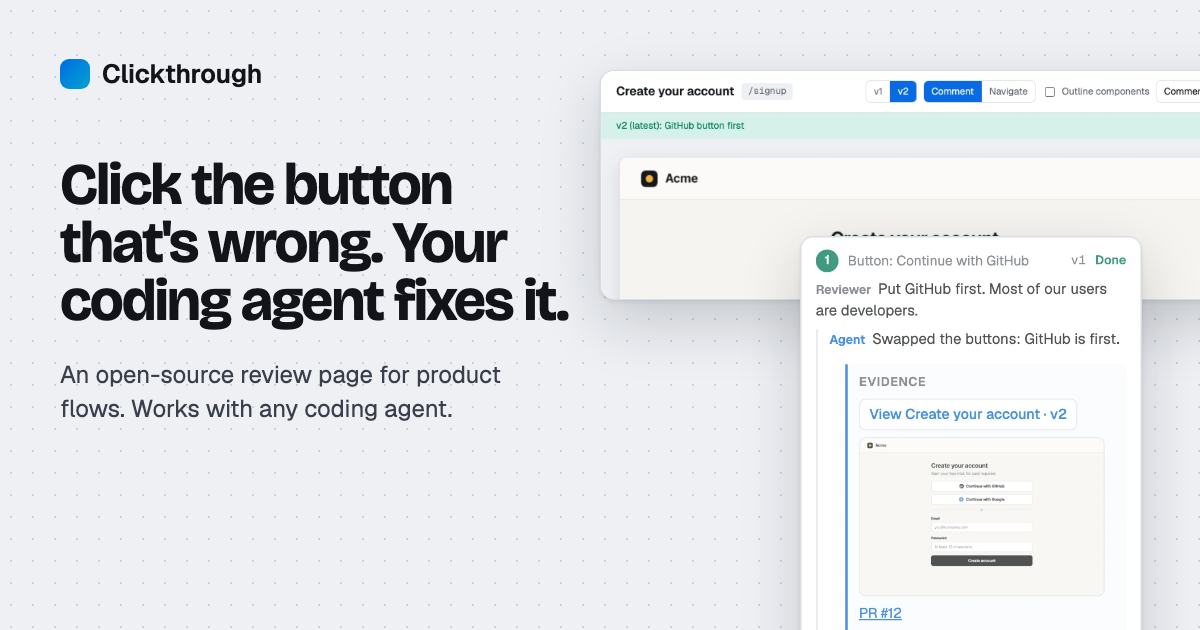
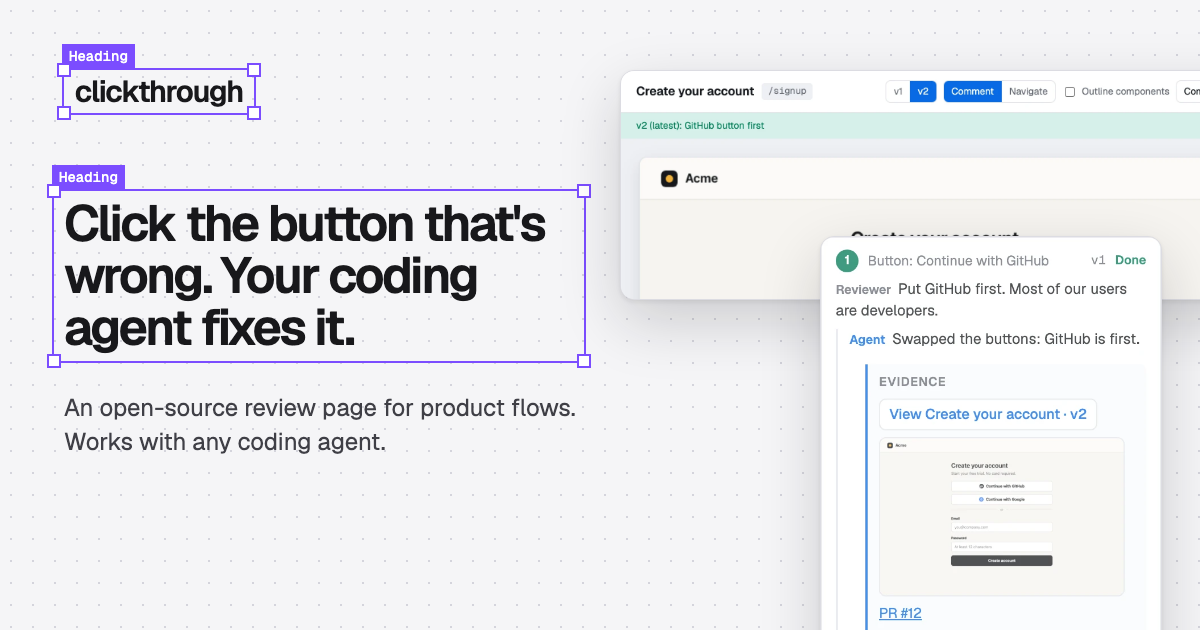
Brand: the Selection direction on the landing page
The wordmark and the main headline are shown selected, with the tool's own
component label. Violet selection colour, Geist throughout, square step
markers, new favicon and social image. og.mjs renders the social image on
its own.

diff --git a/site/styles.css b/site/styles.css
@@ -1,18 +1,19 @@
 /* Clickthrough landing page. The look borrows from the tool itself: a design
-   canvas, the blue selection outline, and a branch tree for the contents. */
+   canvas, the selection box with its label (the brand's one device), and a
+   branch tree for the contents. */
 :root {
-  --canvas: #eef0f4;
-  --dot: #cdd2dc;
+  --canvas: #f5f5f7;
+  --dot: #d4d4dc;
   --panel: #ffffff;
-  --ink: #12141a;
+  --ink: #18181b;
   --muted: #555b6a;
   --line: #d8dce4;
-  --blue: oklch(0.55 0.2 258);
-  --blue-wash: oklch(0.55 0.2 258 / 0.1);
+  --select: #7b4dff; /* the selection colour */
+  --select-wash: rgb(123 77 255 / 0.1);
   --green: oklch(0.508 0.118 166);
-  --code-bg: #14171f;
+  --code-bg: #18181b;
   --code-fg: #e4e7ee;
-  --display: "Bricolage Grotesque", "Geist", system-ui, sans-serif;
+  --display: "Geist", ui-sans-serif, system-ui, sans-serif;
   --sans: "Geist", ui-sans-serif, system-ui, -apple-system, "Segoe UI", Roboto, sans-serif;
   --mono: "Geist Mono", ui-monospace, "SF Mono", Menlo, Consolas, monospace;
   --rail: 264px;
@@ -29,8 +30,8 @@ body {
   -webkit-font-smoothing: antialiased;
 }
 [hidden] { display: none !important; }
-a { color: var(--blue); text-underline-offset: 3px; }
-:focus-visible { outline: 2px solid var(--blue); outline-offset: 3px; border-radius: 4px; }
+a { color: var(--select); text-underline-offset: 3px; }
+:focus-visible { outline: 2px solid var(--select); outline-offset: 3px; border-radius: 4px; }
 .skip { position: absolute; left: -999px; top: 8px; background: var(--panel); padding: 8px 12px; border-radius: 6px; z-index: 20; }
 .skip:focus { left: 8px; }
 code, kbd, pre { font-family: var(--mono); }
@@ -38,8 +39,24 @@ p code, li code, figcaption code { font-size: 0.88em; background: rgb(18 20 26 /
 kbd { font-size: 0.8em; border: 1px solid var(--line); border-bottom-width: 2px; border-radius: 5px; padding: 1px 6px; background: var(--panel); }
 
 /* ---------- brand ---------- */
-.brand { display: inline-flex; align-items: center; gap: 9px; font-weight: 600; font-size: 16px; color: var(--ink); text-decoration: none; }
-.logo { width: 20px; height: 20px; border-radius: 6px; background: linear-gradient(135deg, var(--blue), oklch(0.65 0.15 220)); }
+.brand { display: inline-block; color: var(--ink); text-decoration: none; font: 600 18px/1 var(--sans); letter-spacing: -0.035em; padding-top: 16px; }
+
+/* The selection box: outline, four handles and the component's label. The
+   wordmark and the main headline are always shown selected. */
+.sel { position: relative; display: inline-block; outline: 1.5px solid var(--select); outline-offset: 0; padding: 0.22em 0.36em; }
+.sel::before { content: attr(data-k); position: absolute; left: -1.5px; bottom: calc(100% + 1.5px); background: var(--select); color: #fff; font: 500 10.5px/1 var(--mono); letter-spacing: 0; padding: 3px 5px; white-space: nowrap; }
+.sel i { position: absolute; width: 7px; height: 7px; background: #fff; border: 1.5px solid var(--select); }
+.sel i:nth-of-type(1) { left: -4px; top: -4px; }
+.sel i:nth-of-type(2) { right: -4px; top: -4px; }
+.sel i:nth-of-type(3) { left: -4px; bottom: -4px; }
+.sel i:nth-of-type(4) { right: -4px; bottom: -4px; }
+h1 .sel { padding: 0.12em 0.16em; margin-left: -0.16em; }
+h1 .sel::before { font-size: 12px; padding: 4px 6px; }
+h1 .sel i { width: 9px; height: 9px; }
+h1 .sel i:nth-of-type(1), h1 .sel i:nth-of-type(3) { left: -5px; }
+h1 .sel i:nth-of-type(2), h1 .sel i:nth-of-type(4) { right: -5px; }
+h1 .sel i:nth-of-type(1), h1 .sel i:nth-of-type(2) { top: -5px; }
+h1 .sel i:nth-of-type(3), h1 .sel i:nth-of-type(4) { bottom: -5px; }
 
 /* ---------- top bar (small screens) ---------- */
 .top { display: flex; align-items: center; justify-content: space-between; padding: 16px 20px; }
@@ -51,7 +68,7 @@ kbd { font-size: 0.8em; border: 1px solid var(--line); border-bottom-width: 2px;
 .tree ul { margin: 2px 0 8px 13px; padding-left: 8px; border-left: 1px solid var(--line); }
 .row { display: flex; align-items: center; gap: 8px; padding: 6px 8px; border-radius: 6px; font-size: 14px; color: var(--ink); text-decoration: none; }
 a.row:hover { background: rgb(18 20 26 / 0.05); }
-a.row[aria-current="true"] { background: var(--blue-wash); }
+a.row[aria-current="true"] { background: var(--select-wash); }
 .row .n { flex: none; min-width: 18px; font: 11px var(--mono); color: var(--muted); }
 .row.branch { color: var(--muted); font-weight: 500; font-size: 13.5px; padding: 5px 6px; }
 .row.join { color: var(--muted); font-size: 13.5px; }
@@ -63,8 +80,8 @@ main { max-width: 1040px; margin: 0 auto; padding: 0 20px; }
 section { padding: 44px 0; }
 section + section { border-top: 1px solid var(--line); }
 h1, h2, h3 { margin: 0; text-wrap: balance; }
-h1 { font: 700 clamp(2.5rem, 7.4vw, 4.75rem) / 0.98 var(--display); letter-spacing: -0.035em; max-width: 13em; }
-h2 { font: 700 clamp(1.75rem, 4vw, 2.5rem) / 1.05 var(--display); letter-spacing: -0.025em; margin-bottom: 16px; }
+h1 { font: 600 clamp(2.25rem, 6.6vw, 4.25rem) / 1.02 var(--display); letter-spacing: -0.045em; max-width: 14em; padding-top: 22px; }
+h2 { font: 600 clamp(1.625rem, 3.6vw, 2.25rem) / 1.08 var(--display); letter-spacing: -0.035em; margin-bottom: 16px; }
 h3 { font: 600 1.0625rem / 1.3 var(--sans); margin-bottom: 6px; }
 p { margin: 0 0 14px; max-width: 34em; text-wrap: pretty; }
 section p { color: #2c303b; }
@@ -79,7 +96,7 @@ section p { color: #2c303b; }
 /* ---------- commands ---------- */
 .cmd { display: flex; align-items: center; gap: 10px; max-width: 100%; background: var(--code-bg); color: var(--code-fg); border-radius: 10px; padding: 6px 6px 6px 16px; }
 .cmd code { flex: 1; min-width: 0; overflow-x: auto; white-space: nowrap; font-size: 14.5px; padding: 8px 0; scrollbar-width: none; }
-.p { color: #7ea2ff; user-select: none; margin-right: 4px; }
+.p { color: #b39dff; user-select: none; margin-right: 4px; }
 .copy { flex: none; font: 500 13.5px var(--sans); color: var(--code-fg); background: rgb(255 255 255 / 0.1); border: 1px solid rgb(255 255 255 / 0.16); border-radius: 7px; padding: 7px 12px; min-width: 64px; cursor: pointer; }
 .copy:hover { background: rgb(255 255 255 / 0.18); }
 .copy.ok { color: #7fe0b6; }
@@ -88,7 +105,7 @@ pre { margin: 18px 0 0; background: var(--code-bg); color: var(--code-fg); borde
 .or { margin: 0; font-size: 14px; color: var(--muted); }
 .prompt { background: var(--panel); border: 1px solid var(--line); border-radius: 12px; padding: 20px; box-shadow: var(--shadow); }
 .prompt p { font-size: 1rem; line-height: 1.5; overflow-wrap: break-word; color: var(--ink); }
-.prompt .copy { color: #fff; background: var(--blue); border-color: transparent; }
+.prompt .copy { color: #fff; background: var(--select); border-color: transparent; }
 .prompt .copy:hover { filter: brightness(1.08); }
 
 /* ---------- screenshots ---------- */
@@ -106,7 +123,7 @@ pre { margin: 18px 0 0; background: var(--code-bg); color: var(--code-fg); borde
 /* ---------- the loop: a real sequence, so it is numbered ---------- */
 .loop { list-style: none; margin: 8px 0 0; padding: 0; counter-reset: step; display: grid; gap: 0; }
 .loop li { counter-increment: step; position: relative; padding: 0 0 22px 44px; }
-.loop li::before { content: counter(step); position: absolute; left: 0; top: 0; width: 26px; height: 26px; border-radius: 13px 13px 13px 4px; background: var(--blue); color: #fff; font: 600 13px/26px var(--sans); text-align: center; }
+.loop li::before { content: counter(step); position: absolute; left: 0; top: 0; width: 26px; height: 26px; border-radius: 0; background: var(--select); color: #fff; font: 600 13px/26px var(--sans); text-align: center; }
 .loop li::after { content: ""; position: absolute; left: 12.5px; top: 32px; bottom: 4px; width: 1px; background: var(--line); }
 .loop li:last-child { padding-bottom: 0; }
 .loop li:last-child::before { background: var(--green); }
@@ -121,7 +138,7 @@ pre { margin: 18px 0 0; background: var(--code-bg); color: var(--code-fg); borde
 .modes { margin-top: 20px; }
 .seg { display: inline-flex; border: 1px solid var(--line); border-radius: 9px; overflow: hidden; background: var(--panel); }
 .seg button { border: 0; background: transparent; font: 500 15px var(--sans); color: var(--muted); padding: 9px 18px; cursor: pointer; }
-.seg button[aria-pressed="true"] { background: var(--blue); color: #fff; }
+.seg button[aria-pressed="true"] { background: var(--select); color: #fff; }
 .mode { margin-top: 18px; }
 .mode p { max-width: 44em; }
 
@@ -139,11 +156,11 @@ footer { max-width: 1040px; margin: 0 auto; padding: 22px 20px 40px; border-top:
 /* ---------- hover a heading or a command: it is outlined like a component in the tool ---------- */
 @media (hover: hover) {
   [data-c] { position: relative; }
-  h1[data-c]:hover, h2[data-c]:hover, .prompt[data-c]:hover, .cmd[data-c]:hover, pre[data-c]:hover { outline: 2px solid var(--blue); outline-offset: 5px; border-radius: 6px; }
-  h1[data-c]:hover::after, h2[data-c]:hover::after {
+  h2[data-c]:hover, .prompt[data-c]:hover, .cmd[data-c]:hover, pre[data-c]:hover { outline: 1.5px solid var(--select); outline-offset: 5px; border-radius: 0; }
+  h2[data-c]:hover::after, .prompt[data-c]:hover::after, .cmd[data-c]:hover::after, pre[data-c]:hover::after {
     content: attr(data-c);
-    position: absolute; left: -5px; top: calc(100% + 11px); z-index: 5;
-    font: 500 12px/1 var(--mono); letter-spacing: 0; color: #fff; background: var(--ink); padding: 6px 8px; border-radius: 6px; white-space: nowrap;
+    position: absolute; left: -6.5px; bottom: calc(100% + 6.5px); z-index: 5;
+    font: 500 10.5px/1 var(--mono); letter-spacing: 0; color: #fff; background: var(--select); padding: 3px 5px; white-space: nowrap;
   }
 }
 
@@ -168,7 +185,7 @@ footer { max-width: 1040px; margin: 0 auto; padding: 22px 20px 40px; border-top:
     position: fixed; inset: 0 auto 0 0; width: var(--rail); padding: 22px 14px 18px;
     background: var(--panel); border-right: 1px solid var(--line); overflow-y: auto;
   }
-  .rail .brand { padding: 0 8px; }
+  .rail .brand { margin: 0 8px; align-self: flex-start; }
   main, footer { margin-left: calc(var(--rail) + max(40px, (100vw - var(--rail) - 1040px) / 2)); margin-right: auto; }
   .hero { padding-top: 64px; }
 }

diff --git a/site/demo/og.html b/site/demo/og.html
@@ -1,23 +1,28 @@
 <!doctype html>
-<!-- Template for the 1200x630 social image. shots.mjs renders it to ../og.png. -->
+<!-- Template for the 1200x630 social image. og.mjs renders it to ../og.png. -->
 <meta charset="utf-8">
-<link rel="stylesheet" href="https://fonts.googleapis.com/css2?family=Bricolage+Grotesque:opsz,wght@12..96,700&family=Geist:wght@400;500;600&display=swap">
+<link rel="stylesheet" href="https://fonts.googleapis.com/css2?family=Geist:wght@400;500;600&family=Geist+Mono:wght@500&display=swap">
 <style>
   html, body { margin: 0; }
-  body { width: 1200px; height: 630px; overflow: hidden; position: relative; color: #12141a; font: 24px/1.4 "Geist", system-ui, sans-serif;
-    background: #eef0f4 radial-gradient(#cdd2dc 1px, transparent 1.4px) 0 0 / 22px 22px; }
-  .text { position: absolute; left: 60px; top: 56px; width: 510px; }
-  .brand { display: flex; align-items: center; gap: 12px; font-weight: 600; font-size: 26px; }
-  .logo { width: 30px; height: 30px; border-radius: 9px; background: linear-gradient(135deg, oklch(0.55 0.2 258), oklch(0.65 0.15 220)); }
-  h1 { font: 700 58px/1 "Bricolage Grotesque", sans-serif; letter-spacing: -0.035em; margin: 64px 0 28px; }
-  p { margin: 0; color: #3a3f4c; }
-  img { position: absolute; display: block; background: #fff; border: 1px solid #d8dce4; border-radius: 14px; box-shadow: 0 2px 4px rgb(18 20 26 / .08), 0 22px 60px rgb(18 20 26 / .18); }
-  .screen { left: 600px; top: 70px; width: 760px; }
-  .thread { left: 800px; top: 236px; width: 340px; }
+  body { width: 1200px; height: 630px; overflow: hidden; position: relative; color: #18181b; font: 24px/1.4 "Geist", system-ui, sans-serif;
+    background: #f5f5f7 radial-gradient(#d4d4dc 1px, transparent 1.4px) 0 0 / 22px 22px; }
+  .text { position: absolute; left: 64px; top: 70px; width: 520px; }
+  .sel { position: relative; display: inline-block; outline: 2px solid #7b4dff; padding: .22em .36em; }
+  .sel::before { content: attr(data-k); position: absolute; left: -2px; bottom: calc(100% + 2px); background: #7b4dff; color: #fff; font: 500 14px/1 "Geist Mono", monospace; letter-spacing: 0; padding: 5px 7px; white-space: nowrap; }
+  .sel i { position: absolute; width: 10px; height: 10px; background: #fff; border: 2px solid #7b4dff; }
+  .sel i:nth-of-type(1) { left: -7px; top: -7px; } .sel i:nth-of-type(2) { right: -7px; top: -7px; }
+  .sel i:nth-of-type(3) { left: -7px; bottom: -7px; } .sel i:nth-of-type(4) { right: -7px; bottom: -7px; }
+  .brand { font-weight: 600; font-size: 30px; letter-spacing: -0.035em; line-height: 1; }
+  h1 { font: 600 50px/1.04 "Geist", sans-serif; letter-spacing: -0.045em; margin: 78px 0 0; }
+  h1 .sel { padding: .14em .2em; margin-left: -.2em; }
+  p { margin: 30px 0 0; color: #3f3f46; }
+  img { position: absolute; display: block; background: #fff; border: 1px solid #dcdce2; border-radius: 14px; box-shadow: 0 2px 4px rgb(24 24 27 / .08), 0 22px 60px rgb(24 24 27 / .18); }
+  .screen { left: 620px; top: 70px; width: 760px; }
+  .thread { left: 820px; top: 236px; width: 340px; }
 </style>
 <div class="text">
-  <div class="brand"><span class="logo"></span>Clickthrough</div>
-  <h1>Click the button that's wrong. Your coding agent fixes it.</h1>
+  <div class="brand"><span class="sel" data-k="Heading"><i></i><i></i><i></i><i></i>clickthrough</span></div>
+  <h1><span class="sel" data-k="Heading"><i></i><i></i><i></i><i></i>Click the button that's wrong. Your coding agent fixes it.</span></h1>
   <p>An open-source review page for product flows. Works with any coding agent.</p>
 </div>
 <img class="screen" src="../media/versions.webp" alt="">

diff --git a/site/index.html b/site/index.html
@@ -6,7 +6,7 @@
 <title>Clickthrough: click the button that's wrong, your coding agent fixes it</title>
 <meta name="description" content="An open-source CLI and local review page. Your coding agent captures every screen of a product flow, you click any component and comment, and the agent changes the code and shows its proof.">
 <link rel="canonical" href="https://clickthrough.agustin.build/">
-<meta name="theme-color" content="#eef0f4">
+<meta name="theme-color" content="#f5f5f7">
 
 <meta property="og:type" content="website">
 <meta property="og:site_name" content="Clickthrough">
@@ -26,7 +26,7 @@
 <link rel="icon" href="favicon.svg" type="image/svg+xml">
 <link rel="preconnect" href="https://fonts.googleapis.com">
 <link rel="preconnect" href="https://fonts.gstatic.com" crossorigin>
-<link rel="stylesheet" href="https://fonts.googleapis.com/css2?family=Bricolage+Grotesque:opsz,wght@12..96,500..800&family=Geist:wght@400;500;600&family=Geist+Mono:wght@400;500&display=swap">
+<link rel="stylesheet" href="https://fonts.googleapis.com/css2?family=Geist:wght@400;500;600&family=Geist+Mono:wght@400;500&display=swap">
 <link rel="stylesheet" href="styles.css">
 </head>
 <body>
@@ -34,7 +34,7 @@
 
 <!-- The page's contents, drawn the way Clickthrough draws a flow: a branch tree. -->
 <aside class="rail" aria-label="On this page">
-  <a class="brand" href="#top"><span class="logo" aria-hidden="true"></span>Clickthrough</a>
+  <a class="brand" href="#top" aria-label="Clickthrough"><span class="sel" data-k="Heading" aria-hidden="true"><i></i><i></i><i></i><i></i>clickthrough</span></a>
   <nav>
     <ul class="tree">
       <li><a class="row" href="#top"><span class="n">01</span><span class="t">What it is</span></a></li>
@@ -67,13 +67,13 @@
 </aside>
 
 <header class="top">
-  <a class="brand" href="#top"><span class="logo" aria-hidden="true"></span>Clickthrough</a>
+  <a class="brand" href="#top" aria-label="Clickthrough"><span class="sel" data-k="Heading" aria-hidden="true"><i></i><i></i><i></i><i></i>clickthrough</span></a>
   <a class="top-link" href="https://github.com/S4M3R/clickthrough">GitHub</a>
 </header>
 
 <main id="main">
   <section class="hero" id="top">
-    <h1 data-c="Heading">Click the button that's wrong. Your coding agent fixes it.</h1>
+    <h1><span class="sel" data-k="Heading"><i></i><i></i><i></i><i></i>Click the button that's wrong. Your coding agent fixes it.</span></h1>
     <p class="lede">Clickthrough is a local review page for product flows. Your agent captures every screen of signup, onboarding or checkout, with every branch. You click through them like the real app and comment on any component. The agent changes the code, captures the screen again and shows its proof.</p>
     <div class="cta">
       <div class="cmd" data-c="Code">

diff --git a/site/demo/README.md b/site/demo/README.md
@@ -21,7 +21,8 @@ project registry, so your real Clickthrough projects are not touched.
 | `build-flows.mjs` | Captures every screen and builds the flows with the CLI (`init`, `screen`, `edge`). |
 | `agent.sh` | The agent's side: captures the changed screen, then runs `clickthrough screen` and `clickthrough done` with evidence. |
 | `record.mjs` | Drives the review UI as a reviewer, runs `clickthrough watch` and `agent.sh`, writes `demo.mp4`, `demo.gif`, `demo-poster.jpg`. |
-| `shots.mjs` | Stills for the page and the social image (`og.html`). |
+| `shots.mjs` | Stills for the page; ends by running `og.mjs`. |
+| `og.mjs` | Renders the social image from `og.html` (`npm run og`). |
 | `preview.mjs` | Screenshots of the landing page at desktop, tablet and phone widths. |
 
 What is scripted and what is real:
